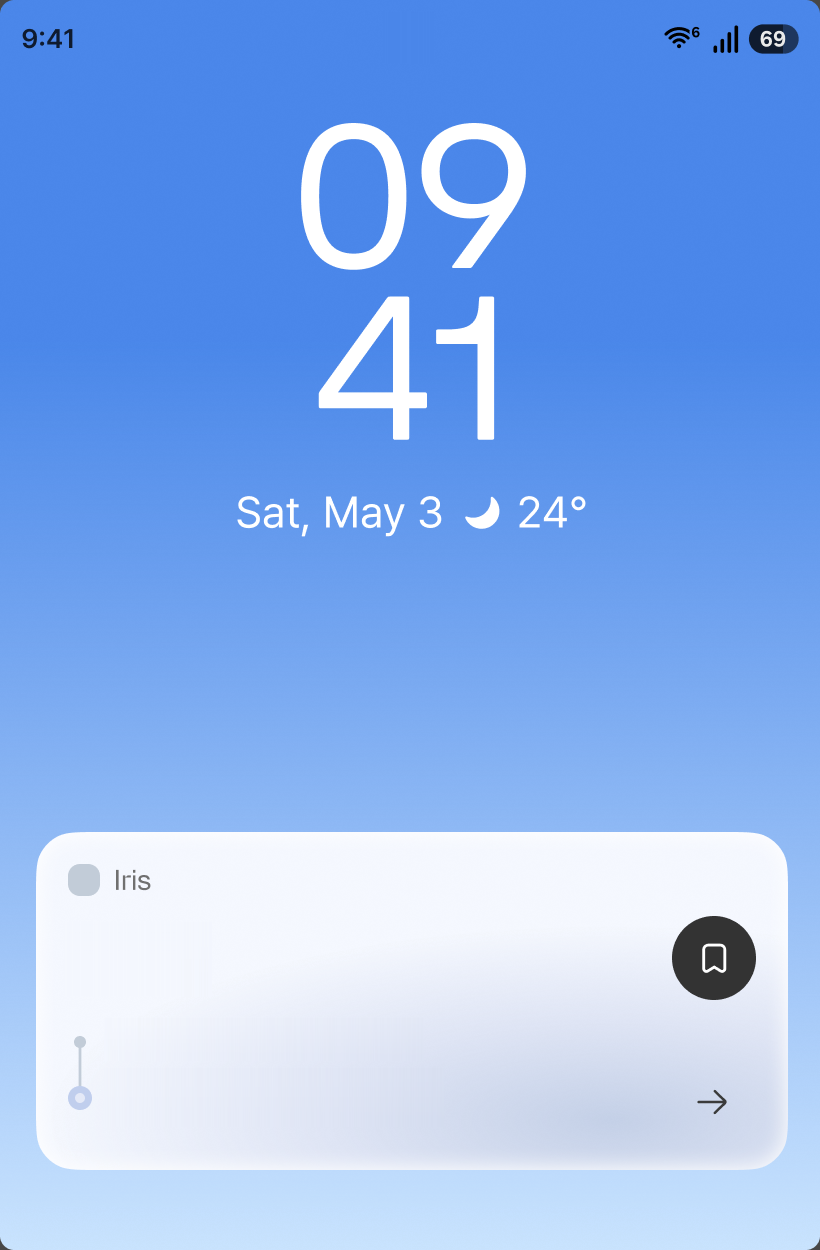
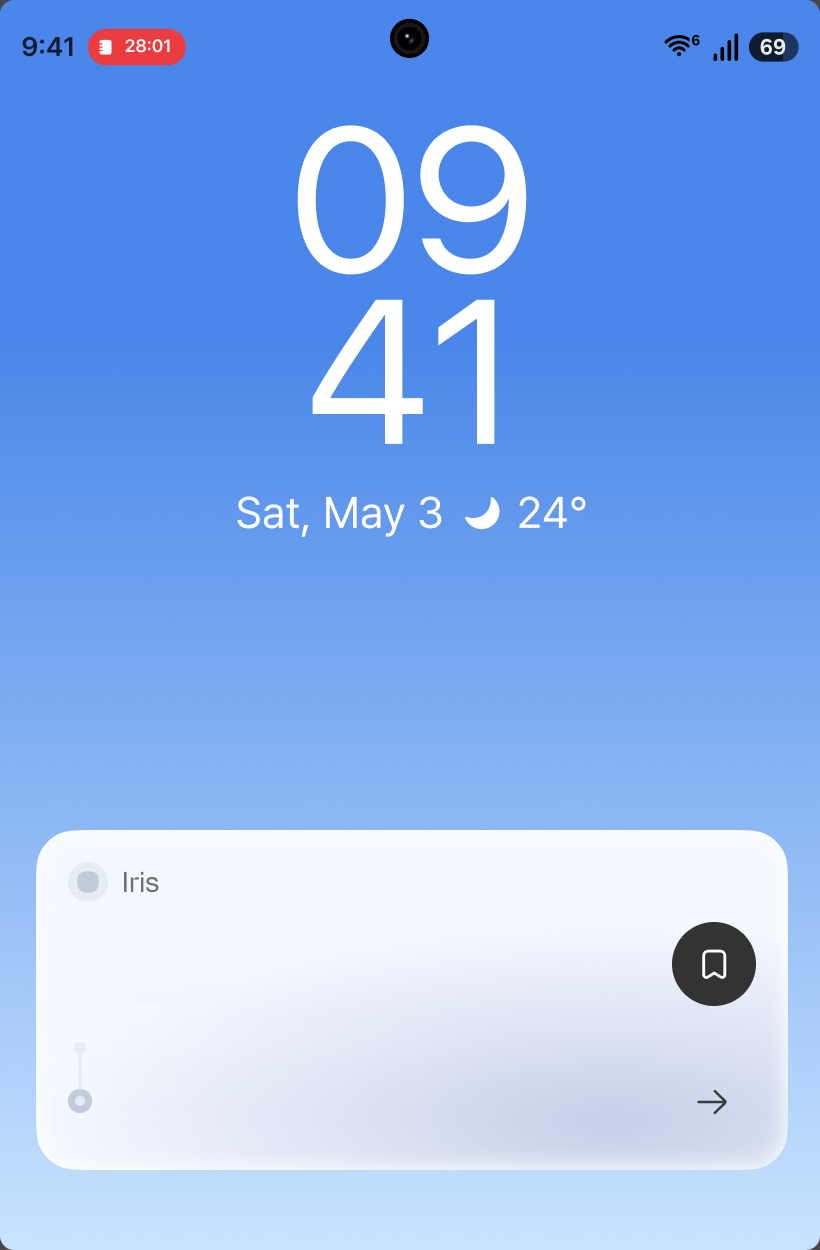
피그마 발표용 섹션(229:15335) 순서로 37장 연결: 표지·배경·Pain Points·Process·Function·마무리 장 추가, 차트 출처 문구, Topic Map 손 목업·렌즈·잠금화면 위젯 갱신

diff --git a/index.html b/index.html
@@ -60,6 +60,10 @@ html, body { height: 100%; background: #000; overflow: hidden; }
 .title b { font-weight: 700; }
 
 /* ── 슬라이드 1·2 : 같은 도형을 스마트 애니메이트 ── */
+#st { background: #000; }
+#st img { position: absolute; left: 0; top: 0; width: 1920px; height: 1080px; display: none; }
+#st img.on { display: block; }
+#chartSlide .note { left: 1612px; top: 488px; width: 187px; margin: 0; font-weight: 400; font-size: 24px; line-height: 1.4; letter-spacing: -.96px; color: #bebebe; text-align: right; white-space: nowrap; }
 #chartSlide .band { left: 0; top: 448px; width: 1920px; height: 632px; background: #f5f5f5; }
 #chartSlide .eyebrow { color: #848484; }
 #chartSlide .title { top: 167px; line-height: 1.4; }
@@ -189,7 +193,7 @@ html, body { height: 100%; background: #000; overflow: hidden; }
   transform: translateY(559px); transition: transform 480ms cubic-bezier(.3, 0, .2, 1) 260ms; }
 #tm:is([data-step="tC"], [data-step="tD"]) .lockL { opacity: 0; pointer-events: none; }
 #tm:is([data-step="tC"], [data-step="tD"]) .sheet { transform: none; } /* 잠금 해제 → 녹음 시트가 아래에서 올라옴 */
-#tm .cam { position: absolute; left: 196.75px; top: 17px; width: 16px; height: 16px; border-radius: 50%; background: #161616; } /* 같은 기기라 카메라는 그대로 */
+#tm .lens { left: 195px; top: 9.434px; width: 19.545px; height: 19.545px; } /* 같은 기기라 렌즈는 세 화면 모두 그대로 */
 #flowL .r12 { position: absolute; font-weight: 400; font-size: 12px; line-height: 1.35; color: #838383; white-space: nowrap; }
 #flowL .m16 { position: absolute; font-weight: 500; font-size: 16px; line-height: 1.35; color: #000; white-space: nowrap; }
 #flowL .typing { animation: typing 1.2s ease-in-out infinite; }
@@ -209,29 +213,29 @@ html, body { height: 100%; background: #000; overflow: hidden; }
 #tm .wave { position: absolute; left: 3px; top: 292px; }
 #tm .wfade { position: absolute; top: 292px; width: 55px; height: 38px; }
 /* 잠금화면 위젯: 지금 주제가 작아지며 위로 → 잠시 인식중(점 셋) → 새 주제 */
-#tm .tps { position: absolute; left: 54px; top: 512px; width: 300px; height: 50px; }
-#tm .tp { position: absolute; left: 0; top: 0; transform-origin: 0 0; white-space: nowrap; letter-spacing: -.02em; }
+#tm .tps { position: absolute; left: 54px; top: 515px; width: 300px; height: 50px; }
+#tm .tp { position: absolute; left: 0; top: 0; transform-origin: 0 0; white-space: nowrap; letter-spacing: -.36px; }
 #tm .tp b, #tm .tp s { display: block; text-decoration: none; transition: opacity 500ms ease; }
-#tm .tp b { font-weight: 500; font-size: 20px; color: #222a2a; line-height: 24px; }
-#tm .tp s { position: absolute; left: 0; top: 0; font-weight: 400; font-size: 20px; color: rgb(194, 204, 216); line-height: 24px; }
+#tm .tp b { font-weight: 600; font-size: 18px; color: #222a2a; line-height: 21px; }
+#tm .tp s { position: absolute; left: 0; top: 0; font-weight: 500; font-size: 18px; color: #98a0aa; line-height: 21px; } /* 지난 주제 = 14px (18 × .7778) */
 #tm .tdots { position: absolute; left: 0; top: 34px; display: flex; gap: 5px; opacity: 0; }
 #tm .tdots i { width: 5px; height: 5px; border-radius: 50%; background: #9aa3b2; animation: typing 1.2s ease-in-out infinite; }
 @keyframes typing { 0%, 60%, 100% { transform: translateY(0); opacity: .5; } 30% { transform: translateY(-3px); opacity: 1; } }
 /* 정적 상태(피그마): 지난 주제 = '인터뷰 이후 인사이트 공유'(작게), 현재 = '제품의 중심 가치 논의' */
-#tm .tp0 { opacity: 0; transform: translateY(-18px) scale(.7); } #tm .tp0 b { opacity: 0; }
-#tm .tp1 { transform: scale(.7); } #tm .tp1 b { opacity: 0; }
-#tm .tp2 { transform: translateY(25px); } #tm .tp2 s { opacity: 0; }
+#tm .tp0 { opacity: 0; transform: translateY(-18px) scale(.7778); } #tm .tp0 b { opacity: 0; }
+#tm .tp1 { transform: scale(.7778); } #tm .tp1 b { opacity: 0; }
+#tm .tp2 { transform: translateY(25.5px); } #tm .tp2 s { opacity: 0; }
 #stage.ready #tm[data-step="tB"] .tp0 { animation: tp0 3600ms linear both; }
 #stage.ready #tm[data-step="tB"] .tp1 { animation: tp1 3600ms linear both; }
 #stage.ready #tm[data-step="tB"] .tp1 b { animation: tpMain 3600ms linear both; }
 #stage.ready #tm[data-step="tB"] .tp1 s { animation: tpPrev 3600ms linear both; }
 #stage.ready #tm[data-step="tB"] .tp2 { animation: tp2 3600ms linear both; }
 #stage.ready #tm[data-step="tB"] .tdots { animation: tdots 3600ms linear both; }
-@keyframes tp0 { 0%, 33% { opacity: 1; transform: scale(.7); animation-timing-function: cubic-bezier(.3, 0, .2, 1); } 53%, 100% { opacity: 0; transform: translateY(-18px) scale(.7); } }
-@keyframes tp1 { 0%, 33% { transform: translateY(25px) scale(1); animation-timing-function: cubic-bezier(.3, 0, .2, 1); } 53%, 100% { transform: scale(.7); } }
+@keyframes tp0 { 0%, 33% { opacity: 1; transform: scale(.7778); animation-timing-function: cubic-bezier(.3, 0, .2, 1); } 53%, 100% { opacity: 0; transform: translateY(-18px) scale(.7778); } }
+@keyframes tp1 { 0%, 33% { transform: translateY(25.5px) scale(1); animation-timing-function: cubic-bezier(.3, 0, .2, 1); } 53%, 100% { transform: scale(.7778); } }
 @keyframes tpMain { 0%, 33% { opacity: 1; animation-timing-function: ease; } 47%, 100% { opacity: 0; } }
 @keyframes tpPrev { 0%, 33% { opacity: 0; animation-timing-function: ease; } 47%, 100% { opacity: 1; } }
-@keyframes tp2 { 0%, 84% { opacity: 0; transform: translateY(33px); animation-timing-function: cubic-bezier(.3, 0, .2, 1); } 100% { opacity: 1; transform: translateY(25px); } }
+@keyframes tp2 { 0%, 84% { opacity: 0; transform: translateY(33px); animation-timing-function: cubic-bezier(.3, 0, .2, 1); } 100% { opacity: 1; transform: translateY(25.5px); } }
 @keyframes tdots { 0%, 53% { opacity: 0; } 58%, 82% { opacity: 1; } 86%, 100% { opacity: 0; } }
 #tm.snap, #tm.snap * { transition: none !important; }
 
@@ -545,8 +549,27 @@ html, body { height: 100%; background: #000; overflow: hidden; }
   <div id="grid"></div>
 
   <!-- 슬라이드 1·2 -->
+  <!-- 아직 애니메이션을 넣지 않은 장(피그마 그대로) — 장 번호는 STATIC 표 -->
+  <section class="slide" id="st">
+    <img data-k="s01" src="assets/st/s01.webp" alt="">
+    <img data-k="s02" src="assets/st/s02.webp" alt="">
+    <img data-k="s03" src="assets/st/s03.webp" alt="">
+    <img data-k="s08" src="assets/st/s08.webp" alt="">
+    <img data-k="s09" src="assets/st/s09.webp" alt="">
+    <img data-k="s10" src="assets/st/s10.webp" alt="">
+    <img data-k="s12" src="assets/st/s12.webp" alt="">
+    <img data-k="s13" src="assets/st/s13.webp" alt="">
+    <img data-k="s14" src="assets/st/s14.webp" alt="">
+    <img data-k="s15" src="assets/st/s15.webp" alt="">
+    <img data-k="s16" src="assets/st/s16.webp" alt="">
+    <img data-k="s35" src="assets/st/s35.webp" alt="">
+    <img data-k="s36" src="assets/st/s36.webp" alt="">
+    <img data-k="s37" src="assets/st/s37.webp" alt="">
+  </section>
+
   <section class="slide" id="chartSlide" data-state="0">
     <div class="abs band"></div>
+    <p class="abs note">자체 설문조사<br>50명 / 9월 6일~ 16일</p>
     <p class="abs eyebrow">[ Research ]</p>
     <div class="abs title">
       <p><span class="q">Q.</span> AI 활용 이후,<b> </b></p><!-- 피그마 원본의 끝 공백까지 가운데 정렬에 포함 -->
@@ -763,7 +786,8 @@ html, body { height: 100%; background: #000; overflow: hidden; }
     <img class="acard dim" src="assets/scn/k1d.webp" style="left:140px;width:810px" alt="">
     <img class="phoneSet head" src="assets/tm/head.png" style="left:0;top:0;width:1920px;height:230px" alt="">
     <div class="abs phoneSet dev" style="left:0;top:0;width:1920px;height:1080px">
-      <img src="assets/tm/chrome.png" style="left:660px;top:250px;width:600px;height:760px" alt="">
+      <img src="assets/tm/hand.webp" style="left:86px;top:403px;width:1169px;height:677px" alt="">
+      <img src="assets/tm/chrome.png" style="left:748px;top:288px;width:424px;height:639px" alt="">
       <div class="abs scr">
         <div class="sheet">
           <img src="assets/tm/sheet.png" style="left:0;top:0;width:410px;height:559px" alt="">
@@ -788,7 +812,7 @@ html, body { height: 100%; background: #000; overflow: hidden; }
           </div>
         </div>
         <p class="pill"><img src="assets/tm/notes.svg" alt=""><span class="tmr" id="pillT">28:04</span></p>
-        <i class="cam"></i>
+        <img class="lens" src="assets/tm/lens.png" alt="">
       </div>
     </div>
   </section>
@@ -897,14 +921,17 @@ function setChart(state) {
 }
 
 // 장 구성: 0·1 은 같은 차트 화면의 두 상태, 2 는 별도 화면
-const N = 22; // … 15·16 시나리오 2(두 카드 → 2 강조), 20·21 버뮤다 존 | 19·20 버뮤다 존(20 = 휴대폰 왼쪽으로 → 대각선 → 삼각형·카드 회색·안내 문구) | 15 시나리오 3, 16 잠금화면(Topic Map), 17 녹음 화면, 18 플로우 | 0·1 차트, 2 인사이트, 3 인사이트+인용문, 4~6 그리드 시스템(6 = 스켈레톤 → 그리드 사라짐 → 디자인 입힘까지 한 번에), 7~9 시나리오, 10 관계맵 개요(안건), 11 관계맵 소개(안건1 줌인), 12 관계맵, 13 '실시간 확인하기' 클로즈업(멈춤), 14 카드 선택 → 원문 재생
+const N = 37; // 피그마 '발표용' 섹션(229:15335) 순서 그대로. 애니메이션이 있는 장은 OLD 표로 예전 번호에 연결
+// OLD[새 번호] = 예전 22장 덱 번호(-1 = 그림만 있는 장). 0·1 차트, 2·3 인사이트, 4~6 그리드, 7~9 시나리오 1, 10~14 Flow Map, 15~19 시나리오 2·Topic Map, 20·21 버뮤다
+const OLD = [-1, -1, -1, 0, 1, 2, 3, -1, -1, -1, -1, -1, -1, -1, -1, -1, 4, 5, 6, ...Array.from({ length: 15 }, (_, k) => 7 + k), -1, -1, -1];
+const STATIC = { 0: 's01', 1: 's02', 2: 's03', 7: 's08', 8: 's09', 9: 's10', 10: 's08', 11: 's12', 12: 's13', 13: 's14', 14: 's15', 15: 's16', 34: 's35', 35: 's36', 36: 's37' };
 // 새로고침하면 맨 첫 장, 주소의 #번호로 열면 그 장
 const reloaded = performance.getEntriesByType('navigation')[0]?.type === 'reload';
 let cur = reloaded ? 0 : Math.min(Math.max(+location.hash.slice(1) - 1 || 0, 0), N - 1);
 const chartSlide = document.getElementById('chartSlide'), s3 = document.getElementById('s3'), map = document.getElementById('map');
 const SC_STEP = { 7: 'sA', 8: 'sB', 9: 'sC' }, TM_STEP = { 15: 'tA0', 16: 'tA', 17: 'tB', 18: 'tC', 19: 'tD' }, MAP_STEP = { 10: 'ov', 11: 'intro', 12: 'full', 13: 'flowA', 14: 'flowB' }, GRID_STEP = { 4: 'g1', 5: 'g2', 6: 'g3' };
 const G3_TO_G4 = 2700; // 미리보기 카드가 다 놓이고 그리드가 사라진 뒤 클릭 없이 바로 디자인 입히기
-const grid = document.getElementById('gs'), sc = document.getElementById('sc'), tm = document.getElementById('tm'), bz = document.getElementById('bz');
+const st = document.getElementById('st'), grid = document.getElementById('gs'), sc = document.getElementById('sc'), tm = document.getElementById('tm'), bz = document.getElementById('bz');
 let cutTimer, gridTimer;
 // Topic Map 휴대폰: 녹음 시간은 자릿수별로 굴러가며 흐르고(프로토타입 RollNum), 파형 막대는 출렁임(프로토타입 Wave)
 
@@ -1051,7 +1078,9 @@ function phone(step) {
     }, 140));
   }
 }
-function show(n) { chartSlide.classList.toggle('on', n < 2); s3.classList.toggle('on', n === 2 || n === 3); grid.classList.toggle('on', n >= 4 && n <= 6); sc.classList.toggle('on', n >= 7 && n <= 9); map.classList.toggle('on', n >= 10 && n <= 14); tm.classList.toggle('on', n >= 15 && n <= 19); bz.classList.toggle('on', n >= 20); chartSlide.classList.remove('stretch'); }
+function show(n) { // n = 예전 번호(-1 = 그림 장)
+  st.classList.toggle('on', n < 0); st.querySelectorAll('img').forEach(im => im.classList.toggle('on', im.dataset.k === STATIC[cur]));
+  chartSlide.classList.toggle('on', n >= 0 && n < 2); s3.classList.toggle('on', n === 2 || n === 3); grid.classList.toggle('on', n >= 4 && n <= 6); sc.classList.toggle('on', n >= 7 && n <= 9); map.classList.toggle('on', n >= 10 && n <= 14); tm.classList.toggle('on', n >= 15 && n <= 19); bz.classList.toggle('on', n >= 20); chartSlide.classList.remove('stretch'); }
 function setStep(el, step, snap) {
   el.classList.toggle('snap', snap);
   // 같은 상태로 다시 들어올 때만 비웠다 넣어 애니메이션을 처음부터 — 다른 상태로 갈 땐 비우면 전환이 0 에서 다시 시작해 깜빡임
@@ -1092,31 +1121,32 @@ function play(on, delay) {
 function go(i, animate = true) {
   const prev = cur;
   cur = Math.min(Math.max(i, 0), N - 1);
+  const c = OLD[cur], p = OLD[prev]; // 아래는 예전 번호로 판단
   clearTimeout(cutTimer); clearTimeout(gridTimer);
-  if (cur === 2 && prev === 1 && animate) {
+  if (c === 2 && p === 1 && animate) {
     chartSlide.classList.add('stretch');            // 그래프가 위로 늘어난 뒤
     cutTimer = setTimeout(() => show(2), 200);      // 트랜지션 없이 3 으로 컷
-  } else show(cur);
-  if (GRID_STEP[cur]) {
-    const g = GRID_STEP[cur];
+  } else show(c);
+  if (GRID_STEP[c]) {
+    const g = GRID_STEP[c];
     setStep(grid, g === 'g3' && !animate ? 'g4' : g, !animate);
     if (g === 'g3' && animate) gridTimer = setTimeout(() => setStep(grid, 'g4', false), G3_TO_G4);
   }
-  if (TM_STEP[cur]) setStep(tm, TM_STEP[cur], !animate);
-  phone(TM_STEP[cur]);
-  flow(TM_STEP[cur] === 'tD', !animate);
-  bz.classList.toggle('enter', prev === 19 && cur === 20); // 플로우 → 두 화면이 차례로 올라옴
-  if (cur >= 20) setStep(bz, cur === 21 ? 'b2' : 'b1', !animate || (prev === 21 && cur === 20));
-  bzClock(cur >= 20);
-  if (SC_STEP[cur]) setStep(sc, SC_STEP[cur], !animate || (prev === 8 && cur === 9) || (prev === 9 && cur === 8));
-  map.classList.toggle('enter', prev === 9 && cur === 10); // 시나리오 → 관계 맵 첫 장
-  map.classList.toggle('zin', prev === 10 && cur === 11);   // 안건 1 로 줌인
-  map.classList.toggle('zout', prev === 11 && cur === 10);  // 다시 안건 카드로 줌아웃
-  map.classList.toggle('back', (prev === 13 && cur === 12) || (prev === 14 && cur === 13)); // 클로즈업·재생에서 뒤로
-  play(MAP_STEP[cur] === 'flowB', animate ? 2350 : 0);
-  if (MAP_STEP[cur]) setStep(map, MAP_STEP[cur], !animate || prev < 10); // 관계 맵으로 처음 들어올 땐 바로 그 상태로
-  if (cur < 2) setChart(cur);
-  if (cur === 2 || cur === 3) s3.dataset.step = cur === 3 ? 'b' : 'a'; // 3→4: 오른쪽에서 인용문이 밀고 들어옴
+  if (TM_STEP[c]) setStep(tm, TM_STEP[c], !animate);
+  phone(TM_STEP[c]);
+  flow(TM_STEP[c] === 'tD', !animate);
+  bz.classList.toggle('enter', p === 19 && c === 20); // 플로우 → 두 화면이 차례로 올라옴
+  if (c >= 20) setStep(bz, c === 21 ? 'b2' : 'b1', !animate || (p === 21 && c === 20));
+  bzClock(c >= 20);
+  if (SC_STEP[c]) setStep(sc, SC_STEP[c], !animate || (p === 8 && c === 9) || (p === 9 && c === 8));
+  map.classList.toggle('enter', p === 9 && c === 10); // 시나리오 → 관계 맵 첫 장
+  map.classList.toggle('zin', p === 10 && c === 11);   // 안건 1 로 줌인
+  map.classList.toggle('zout', p === 11 && c === 10);  // 다시 안건 카드로 줌아웃
+  map.classList.toggle('back', (p === 13 && c === 12) || (p === 14 && c === 13)); // 클로즈업·재생에서 뒤로
+  play(MAP_STEP[c] === 'flowB', animate ? 2350 : 0);
+  if (MAP_STEP[c]) setStep(map, MAP_STEP[c], !animate || p < 10); // 관계 맵으로 처음 들어올 땐 바로 그 상태로
+  if (c >= 0 && c < 2) setChart(c);
+  if (c === 2 || c === 3) s3.dataset.step = c === 3 ? 'b' : 'a'; // 3→4: 오른쪽에서 인용문이 밀고 들어옴
   history.replaceState(null, '', '#' + (cur + 1));
 }
 buildFlow();
@@ -1136,7 +1166,7 @@ addEventListener('resize', fit); fit();
 // 폰트가 늦게 로드되면 폭을 다시 잼 (첫 측정이 대체 글꼴 기준일 수 있음)
 document.fonts.ready.then(() => {
   const sw = document.querySelectorAll('.swap');
-  sw.forEach(e => e.style.transition = 'none'); fitSwaps(Math.min(cur, 1));
+  sw.forEach(e => e.style.transition = 'none'); fitSwaps(Math.min(Math.max(OLD[cur], 0), 1));
   stage.offsetWidth; sw.forEach(e => e.style.transition = '');
 });
 </script>
